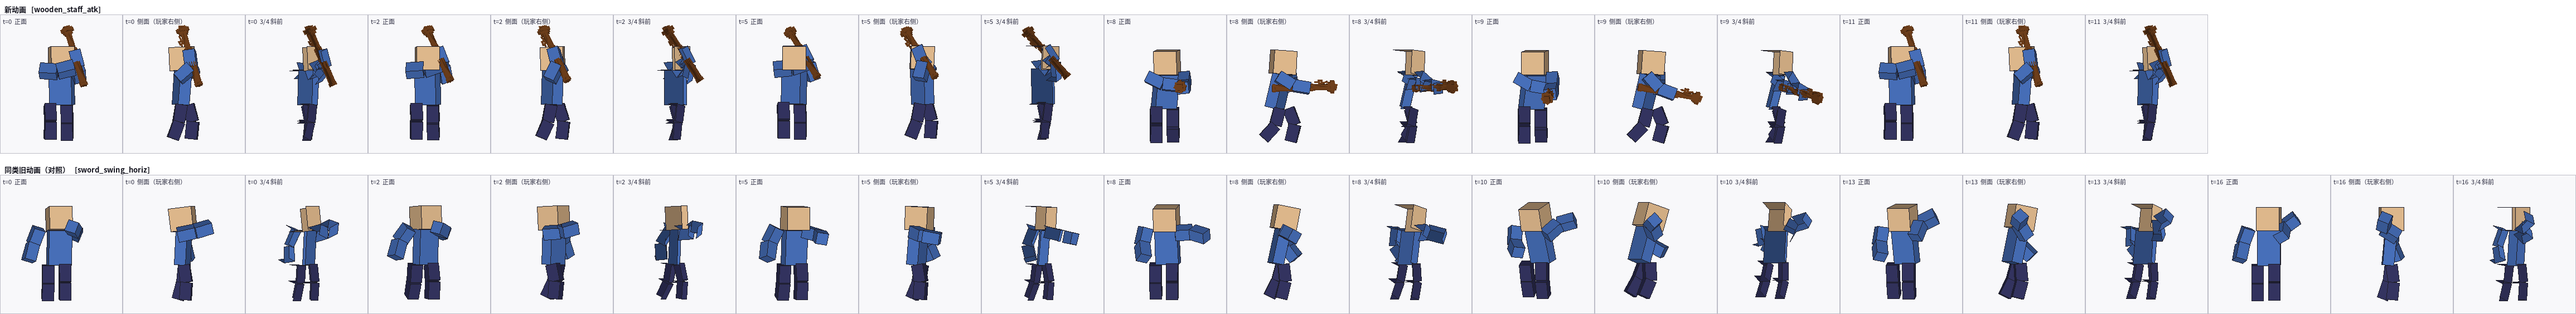
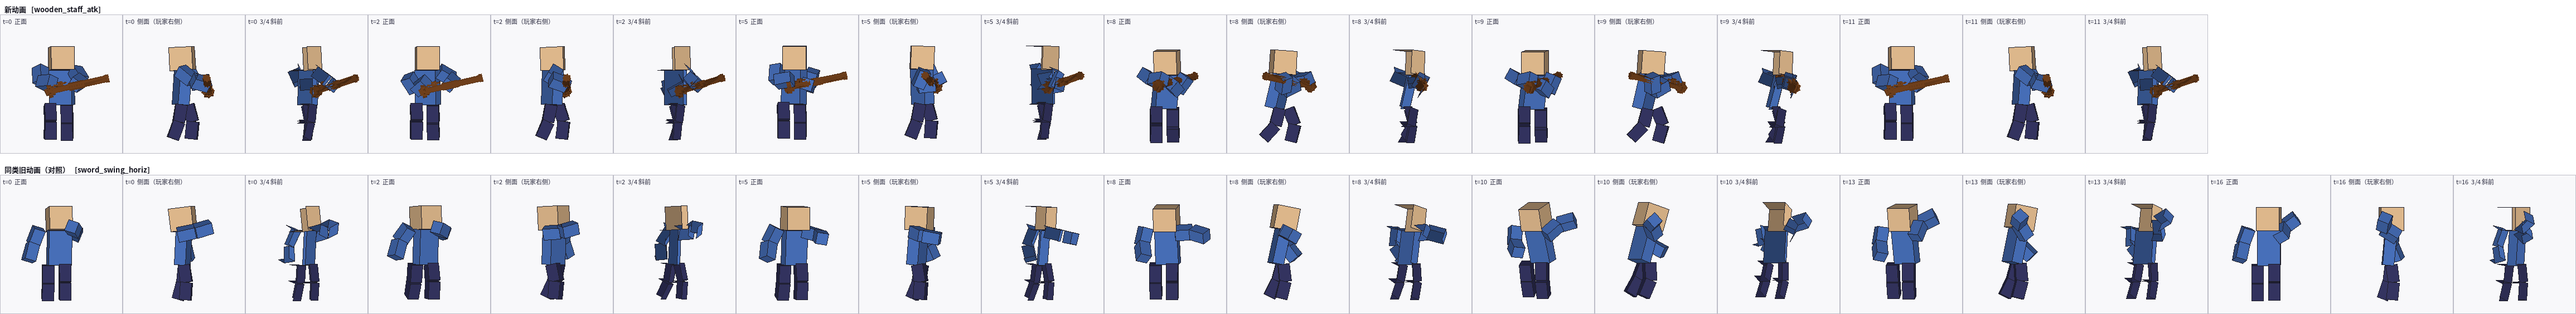
item-use-anim 第 1 批 Round 1：木杖改双手横持（右臂 + rightItem 联合求解）
- gen_wooden_staff_atk：右臂与 rightItem 求握点与杖尖朝向，左臂求左手落在杖轴上；关节均在 |pitch|≤120°、|yaw|/|roll|≤60° 之内
- 关键帧左手到杖轴最大 0.74px，0.25 tick 密采样最大 1.1px
- 重渲木杖一行与总接触表；其余四件字节级不变
- 文档 model-review/item-anim-batch1.md 第 6 节按新方案重写，状态 gate-waiting

diff --git a/client/tools/gen_wooden_staff_atk.py b/client/tools/gen_wooden_staff_atk.py
@@ -1,27 +1,29 @@
 #!/usr/bin/env python3
-"""wooden_staff_atk —— 木杖攻击（截击）。
+"""wooden_staff_atk —— 木杖攻击（横扫 + 点戳）。
 
 只落资产，不接线：产出 player_animation/wooden_staff_atk.json。
 
-木杖特征：双手持、杖身约 1.6m（比玩家稍高），重量介于轻兵器和重兵器之间。
-攻击类型：**斜向截击**（从右肩高斜扫到左腰低位），借杖长制造扫击弧线，
-而非垂直挑刺（那会和骨剑过于相似）。
+木杖特征：双手持、杖身约 1.4 格（v2 模型按 0.8 缩放），双手横持，杖身斜过胸前。
+攻击类型：**横扫接点戳**——杖身先横在胸前、向后拉回（windup），再从身体右侧横扫到
+身前（apex → impact），杖尖在 impact 指向身前左侧做点戳。
 
 设计要点：
-  - **双手持杖**：右手在近握把端，左手贴在杖身中段偏上（离右手约 6px，即 0.375 格），
-    每个关键帧左手都由 `tools/render_block_figure.py` 的手持链路反解过：左手前臂末端中心
-    与杖身轴线的距离在关键帧上 ≤ 1.5px。左臂 pitch 不与右臂同步，读作「滑握」动作。
-  - **借杖长**：身体微侧转、手臂展开幅度大，展现杖身长度带来的宽扫弧。
+  - **双手横持**：右手握杖下段（握点在杖身下部），左手握杖中上段（离右手沿杖轴 6px，即 0.375 格）。
+    两手都在杖轴上：每个关键帧由 `tools/render_block_figure.py` 的手持链路反解过，左手前臂末端
+    中心到杖身轴线的距离 ≤ 1.5px。
+  - **关节舒适范围**：两臂 pitch 绝对值 ≤ 120°，yaw / roll 绝对值 ≤ 60°，不出现扭转式姿态。
+    手臂与杖的朝向都由求解器算出，握点与杖尖方向的目标值见下方「关键帧」。
+  - **右手朝杖**：rightItem 关键帧绕握点转杖身，让杖尖的朝向跟着横扫走，而手的位置不跳。
+  - **借杖长 / 身体转**：躯干仍然大幅右转再反转（torso），手臂在躯干之上独立摆动。
   - **中速**：11 tick，比兵甲重拳(13)快、比缠手拳(8/9)慢，居中定位。
-  - 使用 item_spin 辅助骨：由外部调用方决定，JSON 里只驱动躯干和手臂。
 
-节奏：
-  tick 0  guard       双手持杖，杖头在右肩上方（蓄势姿态）
-  tick 2  windup      右臂上举、左臂拉伸，躯干右转蓄势
-  tick 5  apex        杖头到达最高点（右上角），躯干右转顶点
-  tick 8  impact      杖从右上扫到左下，躯干完成反转
-  tick 9  overshoot   继续扫过左腰位
-  tick 11 guard       收势，杖回到肩上守势
+关键帧（握点 G、杖尖方向 u，单位像素与 MC 坐标，+X 玩家左、+Y 下、+Z 背后）：
+  tick 0  guard     G=(-3,4,-8)  u=(1,0,0)     杖横在胸前，杖尖指向左
+  tick 2  windup    G=(-5,4,-5)  u=(1,0,0)     握点收回右侧，杖仍横放，蓄势
+  tick 5  apex      G=(-4,3,-5)  u=(0.96,0,-0.29) 杖尖向前左扫，躯干右转顶点
+  tick 8  impact    G=(-3,3,-3)  u=(0.5,0,-0.87)  杖尖指向身前左侧，点戳
+  tick 9  overshoot G=(-3,3,-3.1) u=(0.4,0,-0.92) 点戳后的余势
+  tick 11 guard     同 tick 0，收势回守
 """
 
 from anim_common import emit_json
@@ -31,10 +33,9 @@ _GUARD_VALS = dict(
     body=dict(x=0.0, y=0.0, z=+0.02),
     head=dict(pitch=-4, yaw=+8),
     torso=dict(pitch=+4, yaw=-16),            # 侧身站，右肩朝前
-    # 右手近握把端，高位守着（杖头在右肩上方）
-    rightArm=dict(pitch=-130, yaw=+10, roll=+14, bend=56, axis=180),
-    # 左手贴杖身中段偏上（见文件头「双手持杖」），由杖轴反解
-    leftArm=dict(pitch=-165.0, yaw=+55.5, roll=-80.0, bend=20.0, axis=180),
+    rightArm=dict(pitch=-52.5, yaw=-25.0, roll=+60.0, bend=48.75, axis=180),
+    leftArm=dict(pitch=-40.0, yaw=+38.12, roll=-25.63, bend=70.62, axis=180),
+    rightItem=dict(pitch=+20.63, yaw=+58.75, roll=-12.5),
     rightLeg=dict(pitch=+8, yaw=-4, bend=12, z=+0.04),
     leftLeg=dict(pitch=-16, yaw=+5, bend=22, z=-0.10),
 )
@@ -42,48 +43,50 @@ _GUARD_VALS = dict(
 POSE = {
     0: _GUARD_VALS,
 
-    2: dict(  # windup：右臂上举，左臂拉伸，躯干右转
+    2: dict(  # windup：握点收回，杖仍横放，躯干右转蓄势
         easing="INOUTSINE",
         body=dict(x=+0.04, y=0.0, z=-0.02),
         head=dict(pitch=-2, yaw=+4),
         torso=dict(pitch=+2, yaw=-28),            # 右转加深
-        rightArm=dict(pitch=-152, yaw=+14, roll=+18, bend=42, axis=180),
-        leftArm=dict(pitch=-173.4, yaw=+49.2, roll=-82.0, bend=20.0, axis=180),
+        rightArm=dict(pitch=+18.75, yaw=-26.25, roll=+52.5, bend=109.37, axis=180),
+        leftArm=dict(pitch=+31.88, yaw=+48.12, roll=+58.75, bend=106.25, axis=180),
+        rightItem=dict(pitch=+20.0, yaw=+67.5, roll=-10.0),
         rightLeg=dict(pitch=+10, yaw=-4, bend=14, z=+0.04),
         leftLeg=dict(pitch=-18, yaw=+4, bend=24, z=-0.11),
     ),
 
-    5: dict(  # apex：杖头到达最高点，躯干右转顶点
+    5: dict(  # apex：杖尖向前左扫，躯干右转顶点
         easing="INOUTSINE",
         body=dict(x=+0.06, y=-0.02, z=-0.04),
         head=dict(pitch=+2, yaw=-2),
         torso=dict(pitch=-2, yaw=-36),            # 右转顶点
-        rightArm=dict(pitch=-166, yaw=+16, roll=+22, bend=34, axis=180),
-        leftArm=dict(pitch=-180.0, yaw=+47.0, roll=-84.4, bend=20.0, axis=180),
+        rightArm=dict(pitch=+23.75, yaw=-8.75, roll=-16.25, bend=117.5, axis=180),
+        leftArm=dict(pitch=-48.75, yaw=+56.88, roll=-46.88, bend=95.0, axis=180),
+        rightItem=dict(pitch=-74.38, yaw=+49.38, roll=-40.0),
         rightLeg=dict(pitch=+10, yaw=-3, bend=12, z=+0.04),
         leftLeg=dict(pitch=-16, yaw=+4, bend=20, z=-0.10),
     ),
 
-    8: dict(  # impact：杖从右上扫到左下，双臂展开压下
+    8: dict(  # impact：杖尖指向身前左侧，躯干反转完成，点戳
         easing="OUTQUAD",
         body=dict(x=-0.04, y=+0.08, z=+0.12),
         head=dict(pitch=+4, yaw=-10),
         torso=dict(pitch=+14, yaw=+22),           # 反转总量 58°
-        # 右臂随杖头扫到左下，pitch 大幅降低
-        rightArm=dict(pitch=-58, yaw=-6, roll=+6, bend=24, axis=180),
-        # 左手随杖身一起扫向左前上，仍在杖身中段偏上
-        leftArm=dict(pitch=-135.2, yaw=+85.5, roll=-71.2, bend=20.0, axis=180),
+        rightArm=dict(pitch=+6.88, yaw=-35.0, roll=-39.38, bend=101.87, axis=180),
+        leftArm=dict(pitch=-85.0, yaw=+37.5, roll=-29.38, bend=30.0, axis=180),
+        rightItem=dict(pitch=-45.0, yaw=-14.38, roll=-6.87),
         rightLeg=dict(pitch=+14, yaw=-3, bend=28, z=+0.06),
         leftLeg=dict(pitch=-22, yaw=+4, bend=36, z=-0.12),
     ),
 
-    9: dict(  # overshoot：继续扫过，杖头过左腰
+    9: dict(  # overshoot：点戳后的余势
         easing="OUTQUAD",
         body=dict(x=-0.04, y=+0.09, z=+0.12),
         head=dict(pitch=+4, yaw=-11),
         torso=dict(pitch=+15, yaw=+26),
-        rightArm=dict(pitch=-42, yaw=-8, roll=+4, bend=28, axis=180),
-        leftArm=dict(pitch=-120.5, yaw=+90.0, roll=-60.0, bend=20.0, axis=180),
+        rightArm=dict(pitch=-3.75, yaw=-38.12, roll=-20.62, bend=101.25, axis=180),
+        leftArm=dict(pitch=-85.0, yaw=+40.0, roll=-25.0, bend=30.0, axis=180),
+        rightItem=dict(pitch=-44.38, yaw=-18.75, roll=-4.38),
         rightLeg=dict(pitch=+14, yaw=-3, bend=30, z=+0.06),
         leftLeg=dict(pitch=-22, yaw=+4, bend=38, z=-0.12),
     ),
@@ -92,12 +95,14 @@ POSE = {
 }
 
 DESCRIPTION = (
-    "木杖斜向截击：11 tick。双手持杖（右手近握把端、左手贴杖身中段偏上，离右手约 0.375 格）。"
-    "guard 杖头在右肩上方守势、躯干右侧身 -16° → "
-    "windup 右臂上举(-152°)、躯干右转 -28° → apex 杖头到最高点(-166°)、右转顶点 -36° → "
-    "impact 杖从右上扫到左下（右臂 -58°/左臂 -135°，两手都贴杖）、躯干反转总量 58° → "
-    "overshoot 过扫 → 收回守势。"
-    "识别特征：双手宽开持杖、大弧度扫击路径、两臂高低差异。"
+    "木杖横扫接点戳：11 tick。双手横持，右手握杖下段、左手握杖中上段（离右手约 0.375 格），"
+    "两臂 pitch 不超过 ±120°、yaw/roll 不超过 ±60°。"
+    "guard 杖横在胸前，杖尖朝左 → "
+    "windup 握点收回右侧，杖仍横放蓄势，躯干右转 -28° → "
+    "apex 杖尖向前左扫，躯干右转顶点 -36° → "
+    "impact 杖尖指向身前左侧点戳，躯干反转总量 58° → "
+    "overshoot 点戳余势 → 收回守势。"
+    "识别特征：双手横握、杖身斜过胸前，先横扫后点戳。"
 )
 
 if __name__ == "__main__":

diff --git a/model-review/item-anim-batch1.md b/model-review/item-anim-batch1.md
@@ -11,7 +11,9 @@
   1. 中文标签改用 `/usr/share/fonts/opentype/noto/NotoSansCJK-Regular.ttc`（标题加粗用 Bold），不再是豆腐块。
   2. 木杖左手关键帧改到杖身中段偏上（双手持杖），生成器与 JSON 一起改，见动画 6。
   3. 先 `git fetch origin && git merge origin/main`（合并提交 `e6ab6ff72`，带进 #2386 的 v2 模型）；手持物全部改用 v2 网格与它自己的 display，不再用 0.3 格立方体示意。
-- 本轮未改的部分：批次结构、其余 6 条动画的关键帧、骨镐循环、注册表。
+- 木杖双手横持重做（调度 11:5x 决定，授权改右臂）：右臂与 `rightItem` 联合求解，左臂单独求解，见动画 6。
+- 本轮只改木杖一行与总接触表；其余四件（缠手两式、兵甲两式、骨镐、骨剑）的 JSON、生成器、PNG 字节级不变。
+- 本轮未改：批次结构、骨镐循环、注册表。
 - 上一轮（a5ff9e3cd）的火柴人帧图已删除，见 2b248af86。
 
 ## 本轮做了什么（渲染口径）
@@ -53,7 +55,7 @@ PlayerAnimator 的 `rightItem` 插在 display 之后、手持偏移之前（与 
 | 3 | `bing_jia_heavy_left` | 0,2,5,8,9,10,12 | 12 | 否 | 双手兵甲 `bing_jia_shou_tao_v2` | `fist_punch_left` |
 | 4 | `bing_jia_heavy_right` | 0,2,6,9,10,11,13 | 13 | 否 | 双手兵甲 `bing_jia_shou_tao_v2` | `fist_punch_right` |
 | 5 | `pickaxe_bone_use` | 0,3,5,6,8 | 8 | **是** | 右手 `pickaxe_bone_v2` | `pickaxe_iron_v2_use`（右手铁镐 v2） |
-| 6 | `wooden_staff_atk` | 0,2,5,8,9,11 | 11 | 否 | 右手 `wooden_staff_v2`；左手贴杖身 | `sword_swing_horiz`（空手） |
+| 6 | `wooden_staff_atk` | 0,2,5,8,9,11 | 11 | 否 | 右手 `wooden_staff_v2`（横持，右手握下段）；左手握中上段 | `sword_swing_horiz`（空手） |
 | 7 | `bone_sword_slash` | 0,2,5,7,8,9 | 9 | 否 | 右手 `bone_sword_v2`（含 rightItem 关键帧） | `iron_sword_v2_use`（右手铁剑 v2） |
 
 ## 设计与复核（逐件）
@@ -85,19 +87,25 @@ PlayerAnimator 的 `rightItem` 插在 display 之后、手持偏移之前（与 
 - 复核：挥凿轨迹在三视图中可辨；骨镐用 `pickaxe_bone_v2` 的镐形。
 - **未决（接线阶段核实）**：本动画是循环（`isLoop=true`）。采集是循环播放，能否直接按采集节拍重复播放 `pickaxe_bone_use`，要先确认服务端能拿到手持工具与采集节拍。本轮不接线，未核实。
 
-### 6. wooden_staff_atk（木杖斜向截击）
-- 设计：双手持杖，11 tick；右臂从右肩高位（pitch -130°）上举到 -166°，再斜扫到左下（-58°）；躯干扭量 62°。右手握在杖的近握把端。
-- 左手：按调度要求，左手关键帧改到**杖身中段偏上**（离右手沿杖轴约 6px，即 0.375 格）。
-  - 解法：一次性反解脚本（未入库，在 scratchpad），把左臂 pitch/yaw/roll/bend 坐标下降到使左手前臂末端中心贴到杖轴上。
-  - 结果：关键帧上左手到杖轴的垂直距离最大 **1.49px**；0.25 tick 步长密采样最大 **1.73px**（约 0.1 格）。
-  - 生成器 `tools/gen_wooden_staff_atk.py` 与 JSON 已同步更新，文件头「双手持杖」段写明了这个口径。
-- **代价（已拉到关节边界，需调度看）**：
-  - 六个关键帧（0/2/5/8/9/11）的左臂 `bend` 全部顶在 20° 下限（几乎伸直）；
-  - tick 5 `pitch` 到 -180°，tick 9 `yaw` 到 90°；
-  - `roll` 最大 -84°（前臂明显扭转）。
-- **根因（不在本轮改动范围）**：右手握点在右肩外侧（约 x=-4px、y=-6px），杖身从握点斜向右下前方延伸（轴向约 (-0.29, +0.83, -0.48)）。左手要横跨胸前到身体右侧才够得着杖身。在舒适关节范围（pitch -170°~-20°，yaw/roll ±60°，bend ≥30°）内，误差超过 1.5px，**不可达**。
-  - 要做出自然的双手持杖，需要改右臂姿态或杖的挂点，让杖横过胸前；这是右手关键帧的改动，本轮按调度只改左手，未动。
-  - 原版只有右手能持物，左手在游戏里只是姿态，不挂物品；这里的贴合只在审图里成立，需要调度确认是否接受。
+### 6. wooden_staff_atk（木杖横扫接点戳，调度决定重做右臂）
+- 设计：双手横持，杖身斜过胸前。右手握杖下段，左手握杖中上段（离右手沿杖轴 6px，即 0.375 格）。11 tick。
+  - guard：杖横在胸前、杖尖朝左（G=(-3,4,-8)，u=(1,0,0)）；
+  - windup：握点收回右侧，杖仍横放（G=(-5,4,-5)，u=(1,0,0)）；
+  - apex：杖尖向前左扫，躯干右转顶点（G=(-4,3,-5)，u=(0.96,0,-0.29)）；
+  - impact：杖尖指向身前左侧做点戳（G=(-3,3,-3)，u=(0.5,0,-0.87)）；
+  - overshoot：点戳余势；11 与 0 同值，收回守势。
+  - 括号内 G 为右手握点，u 为杖尖方向（像素，MC 坐标，+X 玩家左、+Y 下、+Z 背后）。
+- 解法：一次性求解脚本（未入库，在 scratchpad）。右臂四个关节与 `rightItem` 三个角联合求解：`rightItem` 绕握点转杖身，握点不跳；左臂四个关节求左手落到杖轴上。
+- 结果（关键帧与 0.25 tick 密采样）：
+  - 左手前臂末端中心到杖轴的垂直距离：关键帧最大 **0.74px**，密采样最大 **1.1px**，中位 0.23px（要求 ≤1.5px）。
+  - 右臂：pitch -52.5°~+23.8°，yaw -38.1°~-8.7°，roll -39.4°~+60.0°，bend 48.7°~117.5°。
+  - 左臂：pitch -85.0°~+31.9°，yaw 37.5°~56.9°，roll -46.9°~+58.7°，bend 30.0°~106.2°。
+  - 全部在舒适范围内（|pitch| ≤ 120°，|yaw| ≤ 60°，|roll| ≤ 60°，bend ∈ [30°, 130°]），没有 yaw 90° 这类扭转。
+  - 两处 roll 贴着 ±60° 边界：右臂 roll +60° 在 tick 0 与 11（guard），左臂 roll +58.75° 在 tick 2（windup）。调度如要更宽裕，可以放松。
+- 与旧方案的区别：旧方案的右手把杖挂在右肩外侧，左手要横跨胸前才够得着，左臂被推到 bend 20°、pitch -180°、yaw 90°、roll -84°。新方案让杖横过胸前，两手都在舒适范围内。
+- 生成器 `tools/gen_wooden_staff_atk.py` 与 JSON 已同步。躯干、头部、腿部的值未改。手臂不随躯干转动（conventions §7.3），所以躯干的横扫幅度不影响手上的握持。
+- 攻击性质：guard → windup → apex 的杖尖从左向后、再向前左横扫，impact 杖尖指向身前做点戳，保留「横扫 + 点戳」。
+- 需要调度确认：原版只有右手能挂物品，左手在游戏里只是姿态；这里的贴合在审图里成立，接线时仍只挂右手。
 
 ### 7. bone_sword_slash（骨剑侧弧切）
 - 设计：9 tick；右手单持；剑刃 rightItem 从 +30° 翻到 -60° 再到 -70°，弧切路径从右腰后侧到左前上；躯干扭量 46°。
@@ -120,7 +128,7 @@ PlayerAnimator 的 `rightItem` 插在 display 之后、手持偏移之前（与 
 
 ## 给调度的开放问题（Round 2 前）
 
-- **木杖的双手握持**：左手已贴杖身，但左臂关节被拉到边界，根因在右手握杖的位置（见动画 6）。是否改右臂姿态，还是接受单手截击的口径。
+- **木杖的双手横持**：已按调度决定重做（见动画 6），两手都在舒适范围内。请确认 roll 贴 ±60° 边界的两处是否可接受，以及「只挂右手、左手只是姿态」的接线口径。
 - `pickaxe_bone_use` 循环与采集节拍的关系（接线阶段核实）。
 - 缠手两式、兵甲两式的躯干幅度是否统一（见动画 2、4）。
 - 模型台问题 2~5 的处理方式（接线阶段）。
@@ -133,7 +141,7 @@ PlayerAnimator 的 `rightItem` 插在 display 之后、手持偏移之前（与 
 - 没有使用 `body.yaw`，整体旋转走 `torso.yaw`；`body` 轴只有 x/y/z。
 - 腿 pitch 最大 22°（远低于 40° 上限）。
 - `pickaxe_bone_use` 是循环动画，endTick 闭合帧已由 `emit_json` 的 `_check_loop_closure` 校验。
-- 木杖左臂的 `axis` 固定 180°，所有关键帧通过 `assert_joint_fold_is_anatomical`（肘向身前折）。
+- 木杖两臂的 `axis` 固定 180°，所有关键帧通过 `assert_joint_fold_is_anatomical`（肘向身前折）；木杖新增 `rightItem` 关键帧（pitch/yaw/roll 三轴，`ITEM_AXES` 放行）。
 - 设计注释中的部分数字与 JSON 不符（如缠手肩扭 ≤15°、兵甲两式 52°/56°、骨镐 12 tick）。以 JSON 为准，本文档只写实测值。
 
 ## 调度审 / 人工反馈
